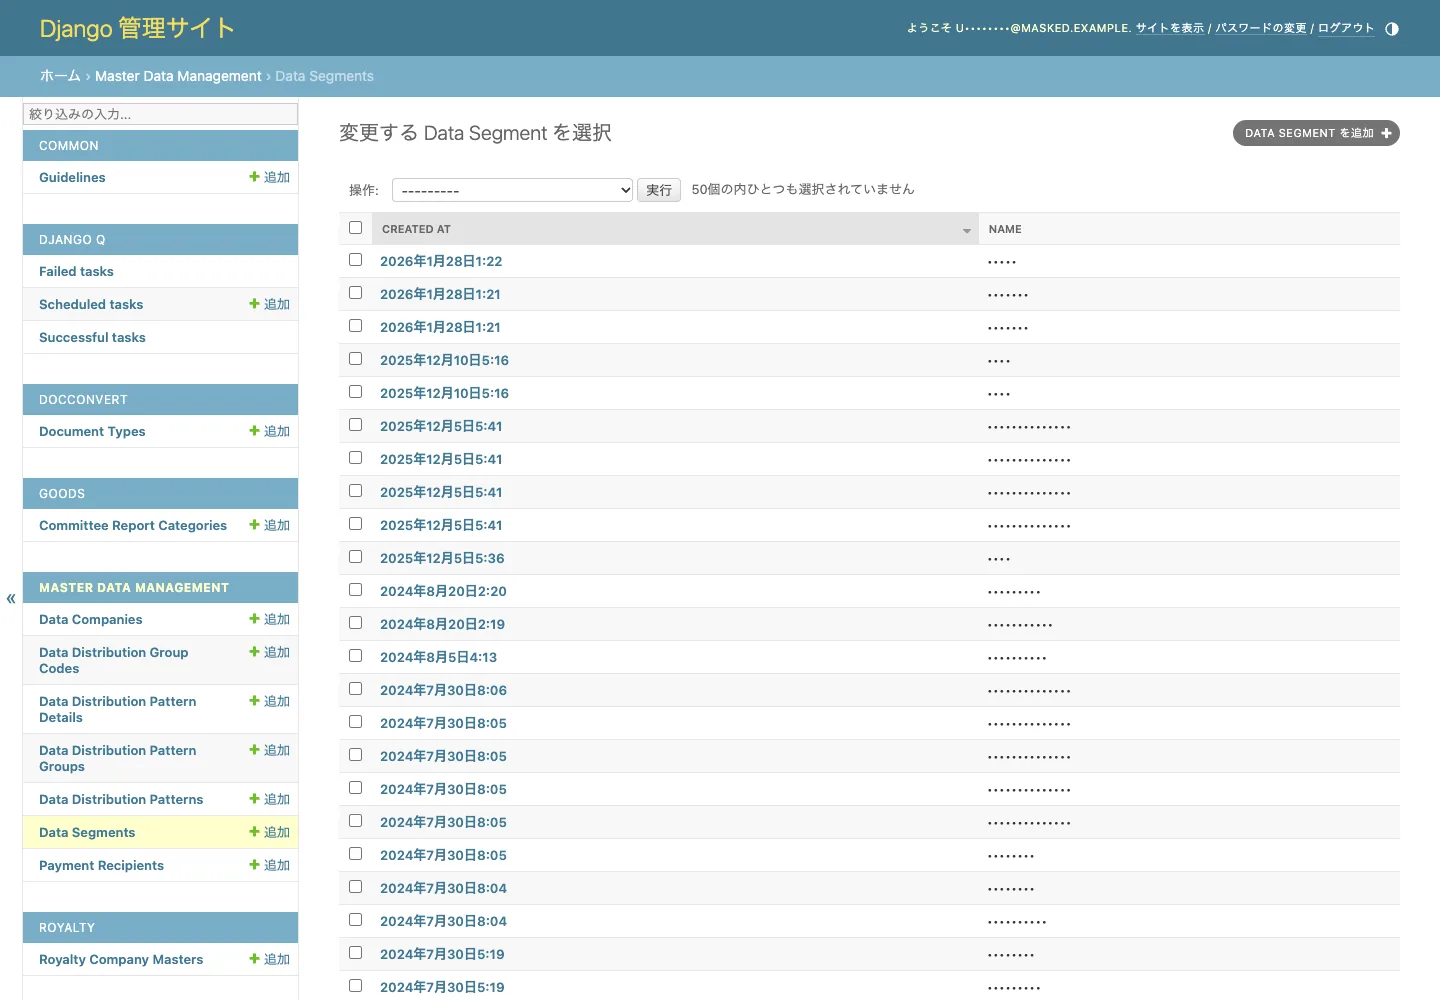
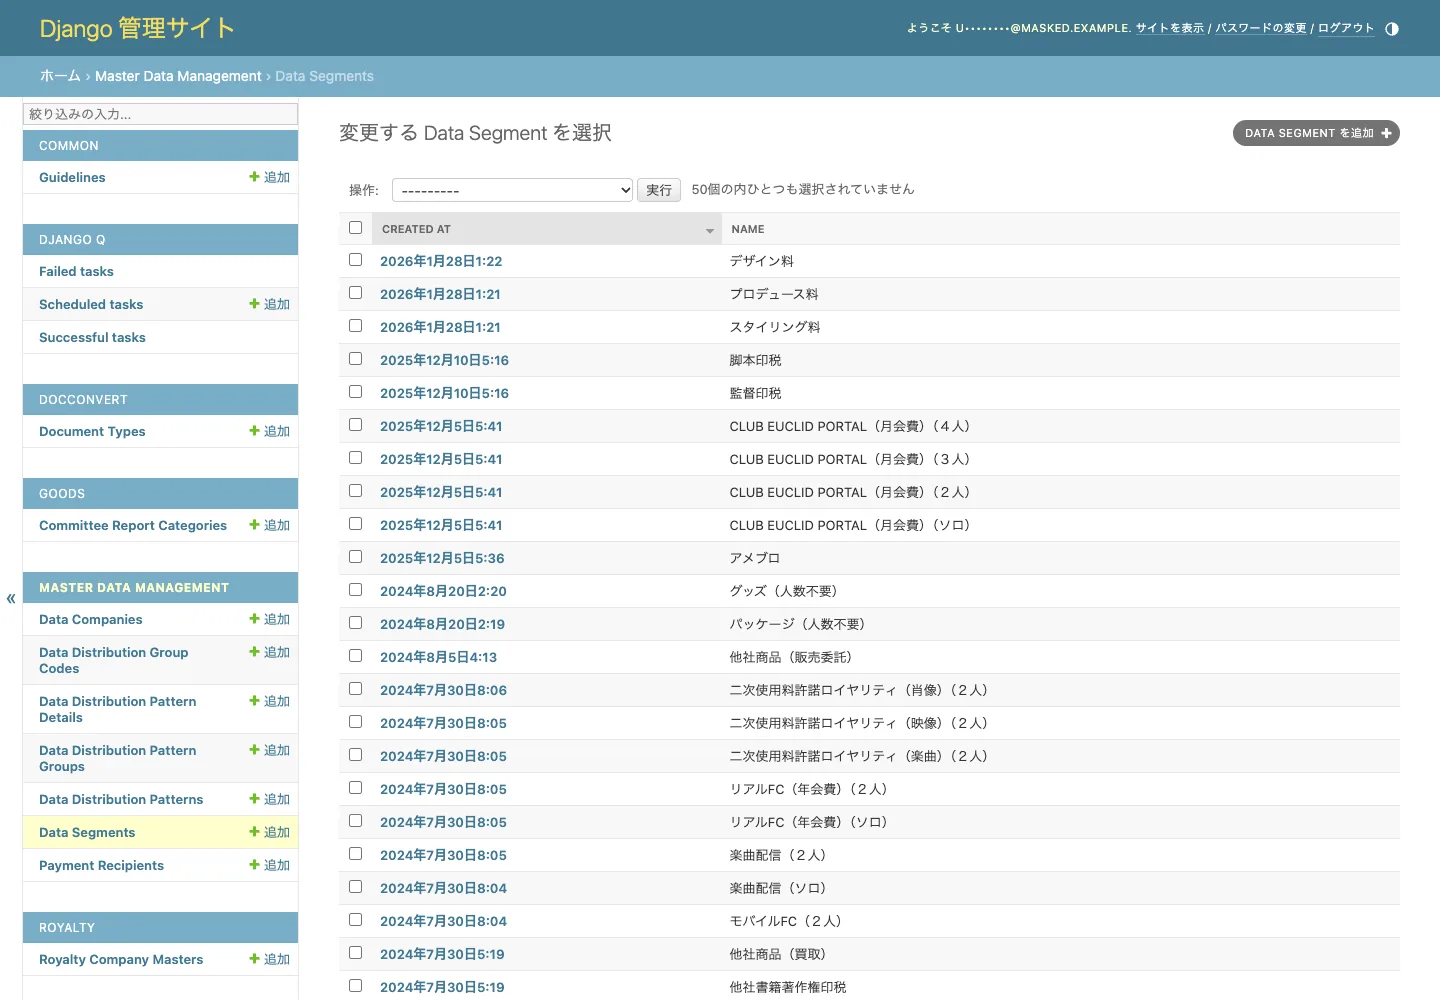
Screen picker instead of 14 stacked comparisons; narrow the name mask
The page was 20,907px -- 23 viewport heights -- because every comparison was
rendered full size one after another, so a mouse wheel barely moved it. Now one
viewer shows the selected screen, with a picker, prev/next and arrow keys. The
page is 8,752px.

Also added a sticky section nav, and fixed two duplicate element ids (the pager
button collided with the 'next' section, the table body with the 'routes' one).

The screenshot mask matched any column header containing 名, so it blanked
パターン名 -- pattern titles -- on the new UI while staging's 'TITLE' column
stayed readable, making the two sides disagree about data that is not personal.
The rule is now anchored to person-name headers only.

diff --git a/index.html b/index.html
@@ -101,6 +101,38 @@ h3{font-size:17px;margin:34px 0 10px;font-weight:660}
 .finding p{margin:6px 0 0;font-size:14px;color:var(--muted)}
 .finding p strong{color:var(--ink);font-weight:620}
 
+/* ---------- sticky section nav ---------- */
+html{scroll-behavior:smooth}
+section{scroll-margin-top:72px}
+.topnav{position:sticky;top:0;z-index:40;background:color-mix(in srgb,var(--bg) 88%,transparent);
+  backdrop-filter:blur(10px);border-bottom:1px solid var(--line)}
+.topnav .wrap{display:flex;gap:4px;align-items:center;overflow-x:auto;
+  scrollbar-width:none;padding-top:9px;padding-bottom:9px}
+.topnav .wrap::-webkit-scrollbar{display:none}
+.topnav .brand{font-size:12.5px;font-weight:680;margin-right:12px;white-space:nowrap}
+.topnav a{font-size:13px;color:var(--muted);text-decoration:none;padding:5px 11px;
+  border-radius:8px;white-space:nowrap}
+.topnav a:hover{background:var(--accent-soft);color:var(--accent)}
+
+/* ---------- screen picker ---------- */
+/* Fourteen full-size comparisons stacked made the page 23 screens tall, so the
+   wheel barely moved it. One viewer plus a picker keeps the page short. */
+.picker{display:flex;flex-wrap:wrap;gap:7px;margin:0 0 22px}
+.picker button{font:inherit;font-size:13px;color:var(--muted);background:var(--panel);
+  border:1px solid var(--line);border-radius:999px;padding:6px 14px;cursor:pointer;
+  display:inline-flex;gap:8px;align-items:baseline;transition:background .12s,color .12s}
+.picker button .n{font-family:var(--mono);font-size:11px;opacity:.65}
+.picker button:hover{border-color:color-mix(in srgb,var(--accent) 45%,var(--line))}
+.picker button[aria-selected="true"]{background:var(--accent);border-color:var(--accent);
+  color:#fff;font-weight:620}
+.picker button[aria-selected="true"] .n{opacity:.8}
+.pager{display:flex;align-items:center;justify-content:center;gap:16px;margin-top:-18px}
+.pager button{font:inherit;font-size:13.5px;font-weight:600;color:var(--accent);
+  background:var(--panel);border:1px solid var(--line);border-radius:10px;
+  padding:8px 16px;cursor:pointer}
+.pager button:hover{background:var(--accent-soft)}
+.pager #counter{font-size:13px;color:var(--muted);font-family:var(--mono)}
+
 /* ---------- gallery ---------- */
 .shot{margin:0 0 38px;background:var(--panel);border:1px solid var(--line);
   border-radius:var(--radius);overflow:hidden;box-shadow:var(--shadow)}
@@ -178,6 +210,19 @@ footer .line{display:flex;justify-content:space-between;gap:16px;flex-wrap:wrap}
 <body>
 <button class="toggle" id="t" title="Toggle theme" aria-label="Toggle theme">◐</button>
 
+<nav class="topnav" aria-label="Sections">
+  <div class="wrap">
+    <span class="brand">DCS admin verification</span>
+    <a href="#environments">Environments</a>
+    <a href="#results">Results</a>
+    <a href="#differences">Differences</a>
+    <a href="#screens">Screens</a>
+    <a href="#extras">Kill switch</a>
+    <a href="#routes">Routes</a>
+    <a href="#next-steps">Next steps</a>
+  </div>
+</nav>
+
 <header class="hero">
   <div class="wrap">
     <p class="eyebrow">DCS admin re-skin · functional verification</p>
@@ -199,7 +244,7 @@ footer .line{display:flex;justify-content:space-between;gap:16px;flex-wrap:wrap}
   </div>
 </header>
 
-<section>
+<section id="environments">
   <div class="wrap">
     <h2><span class="num">01</span>The two environments</h2>
     <p class="sub">
@@ -235,7 +280,7 @@ footer .line{display:flex;justify-content:space-between;gap:16px;flex-wrap:wrap}
   </div>
 </section>
 
-<section>
+<section id="results">
   <div class="wrap">
     <h2><span class="num">02</span>Results at a glance</h2>
     <p class="sub">Every number below was measured by sending the same request to both environments.</p>
@@ -274,7 +319,7 @@ footer .line{display:flex;justify-content:space-between;gap:16px;flex-wrap:wrap}
   </div>
 </section>
 
-<section>
+<section id="differences">
   <div class="wrap">
     <h2><span class="num">03</span>The three differences</h2>
     <p class="sub">None of these is something that broke. Here is what each one is and why it is there.</p>
@@ -307,20 +352,27 @@ footer .line{display:flex;justify-content:space-between;gap:16px;flex-wrap:wrap}
   </div>
 </section>
 
-<section>
+<section id="screens">
   <div class="wrap">
     <h2><span class="num">04</span>Screen comparison</h2>
     <p class="sub">
-      Drag the handle, or use the slider under each image, to wipe between the two.
-      Left is the current admin, right is the new UI — same screen, same data.
+      <strong>Pick a screen below</strong>, then drag the handle — or use the slider under the
+      image — to wipe between the two. Left is the current admin, right is the new UI:
+      same screen, same data.
       <strong>Email addresses and personal names were masked before publishing</strong>;
       the dots you see are not real values.
     </p>
+    <div class="picker" id="picker" role="tablist" aria-label="Screens"></div>
     <div id="gallery"></div>
+    <div class="pager">
+      <button id="shotPrev" type="button">&larr; Previous</button>
+      <span id="counter" aria-live="polite"></span>
+      <button id="shotNext" type="button">Next &rarr;</button>
+    </div>
   </div>
 </section>
 
-<section>
+<section id="extras">
   <div class="wrap">
     <h2><span class="num">05</span>New-UI-only checks</h2>
     <p class="sub">These have no counterpart on the current admin, so they are shown on their own.</p>
@@ -339,20 +391,20 @@ footer .line{display:flex;justify-content:space-between;gap:16px;flex-wrap:wrap}
   </div>
 </section>
 
-<section>
+<section id="routes">
   <div class="wrap">
     <h2><span class="num">06</span>Routes checked</h2>
     <p class="sub">The same request was sent to both environments and the responses compared.</p>
     <div class="tablewrap">
       <table>
         <thead><tr><th>Screen / action</th><th>Path</th><th>Current</th><th>New UI</th><th>Result</th></tr></thead>
-        <tbody id="routes"></tbody>
+        <tbody id="routesBody"></tbody>
       </table>
     </div>
   </div>
 </section>
 
-<section>
+<section id="next-steps">
   <div class="wrap">
     <h2><span class="num">07</span>What happens next (phase 5)</h2>
     <p class="sub">To be done once the design is approved. This verification was about confirming the preconditions are in place.</p>
@@ -410,49 +462,88 @@ var SCREENS = [
 ];
 
 var g = document.getElementById('gallery');
-SCREENS.forEach(function(s, i){
-  var id=s[0], title=s[1], path=s[2], note=s[3];
-  var el=document.createElement('article');
-  el.className='shot';
-  el.innerHTML =
-    '<div class="shot-head"><h3>'+title+'</h3><span class="path">'+path+'</span>'+
-      '<span class="note">'+note+'</span></div>'+
-    '<div class="cmp" style="--pos:50%">'+
-      '<img src="img/staging-'+id+'.webp" width="1440" height="1000" alt="'+title+' — current admin" loading="lazy">'+
-      '<div class="after"><img src="img/newui-'+id+'.webp" width="1440" height="1000" alt="'+title+' — new UI" loading="lazy"></div>'+
-      '<span class="lbl l">Before · current</span><span class="lbl r">After · new UI</span>'+
-      '<span class="handle"></span>'+
-    '</div>'+
-    '<div class="shot-foot">'+
-      '<input class="slider" type="range" min="0" max="100" value="50" '+
-        'aria-label="Reveal more of the new UI for '+title+'">'+
-      '<span class="links"><a href="img/staging-'+id+'.webp" target="_blank" rel="noopener">open current</a> · '+
-      '<a href="img/newui-'+id+'.webp" target="_blank" rel="noopener">open new UI</a></span></div>';
-  g.appendChild(el);
+var picker = document.getElementById('picker');
+var counter = document.getElementById('counter');
+var current = -1;
 
-  var cmp=el.querySelector('.cmp'), range=el.querySelector('.slider');
+SCREENS.forEach(function(s, i){
+  var b = document.createElement('button');
+  b.type = 'button';
+  b.setAttribute('role','tab');
+  b.setAttribute('aria-selected','false');
+  b.innerHTML = '<span class="n">' + String(i + 1).padStart(2,'0') + '</span>' + s[1];
+  b.addEventListener('click', function(){ show(i); });
+  picker.appendChild(b);
+});
+
+function show(i, keepPos){
+  if (i === current) return;
+  var pos = keepPos == null ? 50 : keepPos;
+  var s = SCREENS[i], id = s[0], title = s[1], path = s[2], note = s[3];
+  current = i;
+  [].forEach.call(picker.children, function(b, n){
+    b.setAttribute('aria-selected', n === i ? 'true' : 'false');
+  });
+  counter.textContent = (i + 1) + ' / ' + SCREENS.length;
+
+  g.innerHTML =
+    '<article class="shot">' +
+      '<div class="shot-head"><h3>' + title + '</h3><span class="path">' + path + '</span>' +
+        '<span class="note">' + note + '</span></div>' +
+      '<div class="cmp" style="--pos:' + pos + '%">' +
+        '<img src="img/staging-' + id + '.webp" width="1440" height="1000" alt="' + title + ' — current admin">' +
+        '<div class="after"><img src="img/newui-' + id + '.webp" width="1440" height="1000" alt="' + title + ' — new UI"></div>' +
+        '<span class="lbl l">Before · current</span><span class="lbl r">After · new UI</span>' +
+        '<span class="handle"></span>' +
+      '</div>' +
+      '<div class="shot-foot">' +
+        '<input class="slider" type="range" min="0" max="100" value="' + pos + '" ' +
+          'aria-label="Reveal more of the new UI">' +
+        '<span class="links"><a href="img/staging-' + id + '.webp" target="_blank" rel="noopener">open current</a> · ' +
+        '<a href="img/newui-' + id + '.webp" target="_blank" rel="noopener">open new UI</a></span></div>' +
+    '</article>';
+
+  var cmp = g.querySelector('.cmp'), range = g.querySelector('.slider');
   function set(p){
-    p=Math.max(0,Math.min(100,p));
-    cmp.style.setProperty('--pos',p+'%');
-    if(range.value!=p) range.value=p;
+    p = Math.max(0, Math.min(100, p));
+    cmp.style.setProperty('--pos', p + '%');
+    if (range.value != p) range.value = p;
   }
   function fromEvent(ev){
-    var r=cmp.getBoundingClientRect();
-    set((ev.clientX-r.left)/r.width*100);
+    var r = cmp.getBoundingClientRect();
+    set((ev.clientX - r.left) / r.width * 100);
   }
-  range.addEventListener('input',function(){ set(+range.value); });
+  range.addEventListener('input', function(){ set(+range.value); });
 
-  // Pointer dragging is for mouse and pen only. On touch, a drag gesture is the
-  // page scrolling, so a tap moves the divider and the swipe is left alone.
-  var dragging=false;
-  cmp.addEventListener('pointerdown',function(e){
-    if(e.pointerType==='touch'){ fromEvent(e); return; }
-    dragging=true; cmp.setPointerCapture(e.pointerId); fromEvent(e);
+  // Pointer dragging is for mouse and pen only. On touch a drag is the page
+  // scrolling, so a tap moves the divider and the swipe is left alone.
+  var dragging = false;
+  cmp.addEventListener('pointerdown', function(e){
+    if (e.pointerType === 'touch'){ fromEvent(e); return; }
+    dragging = true; cmp.setPointerCapture(e.pointerId); fromEvent(e);
   });
-  cmp.addEventListener('pointermove',function(e){ if(dragging) fromEvent(e); });
-  cmp.addEventListener('pointerup',function(){ dragging=false; });
-  cmp.addEventListener('pointercancel',function(){ dragging=false; });
+  cmp.addEventListener('pointermove', function(e){ if (dragging) fromEvent(e); });
+  cmp.addEventListener('pointerup', function(){ dragging = false; });
+  cmp.addEventListener('pointercancel', function(){ dragging = false; });
+
+  // Warm the next screen so stepping through feels instant.
+  var nxt = SCREENS[(i + 1) % SCREENS.length][0];
+  ['staging-', 'newui-'].forEach(function(pre){ new Image().src = 'img/' + pre + nxt + '.webp'; });
+}
+
+function step(d){
+  var pos = 50, r = g.querySelector('.slider');
+  if (r) pos = +r.value;                       // keep the wipe where the reader left it
+  show((current + d + SCREENS.length) % SCREENS.length, pos);
+}
+document.getElementById('shotPrev').addEventListener('click', function(){ step(-1); });
+document.getElementById('shotNext').addEventListener('click', function(){ step(1); });
+document.addEventListener('keydown', function(e){
+  if (e.target.matches('input,textarea,select')) return;
+  if (e.key === 'ArrowLeft') step(-1);
+  if (e.key === 'ArrowRight') step(1);
 });
+show(0);
 
 var ROUTES = [
   ['Admin home','/admin/','200','200'],
@@ -477,7 +568,7 @@ var ROUTES = [
   ['Password change','/admin/password_change/','200','200'],
   ['GraphQL API','/graphql','200','200']
 ];
-var tb=document.getElementById('routes');
+var tb=document.getElementById('routesBody');
 ROUTES.forEach(function(r){
   var tr=document.createElement('tr');
   tr.innerHTML='<td>'+r[0]+'</td><td class="mono">'+r[1]+'</td><td class="mono">'+r[2]+
